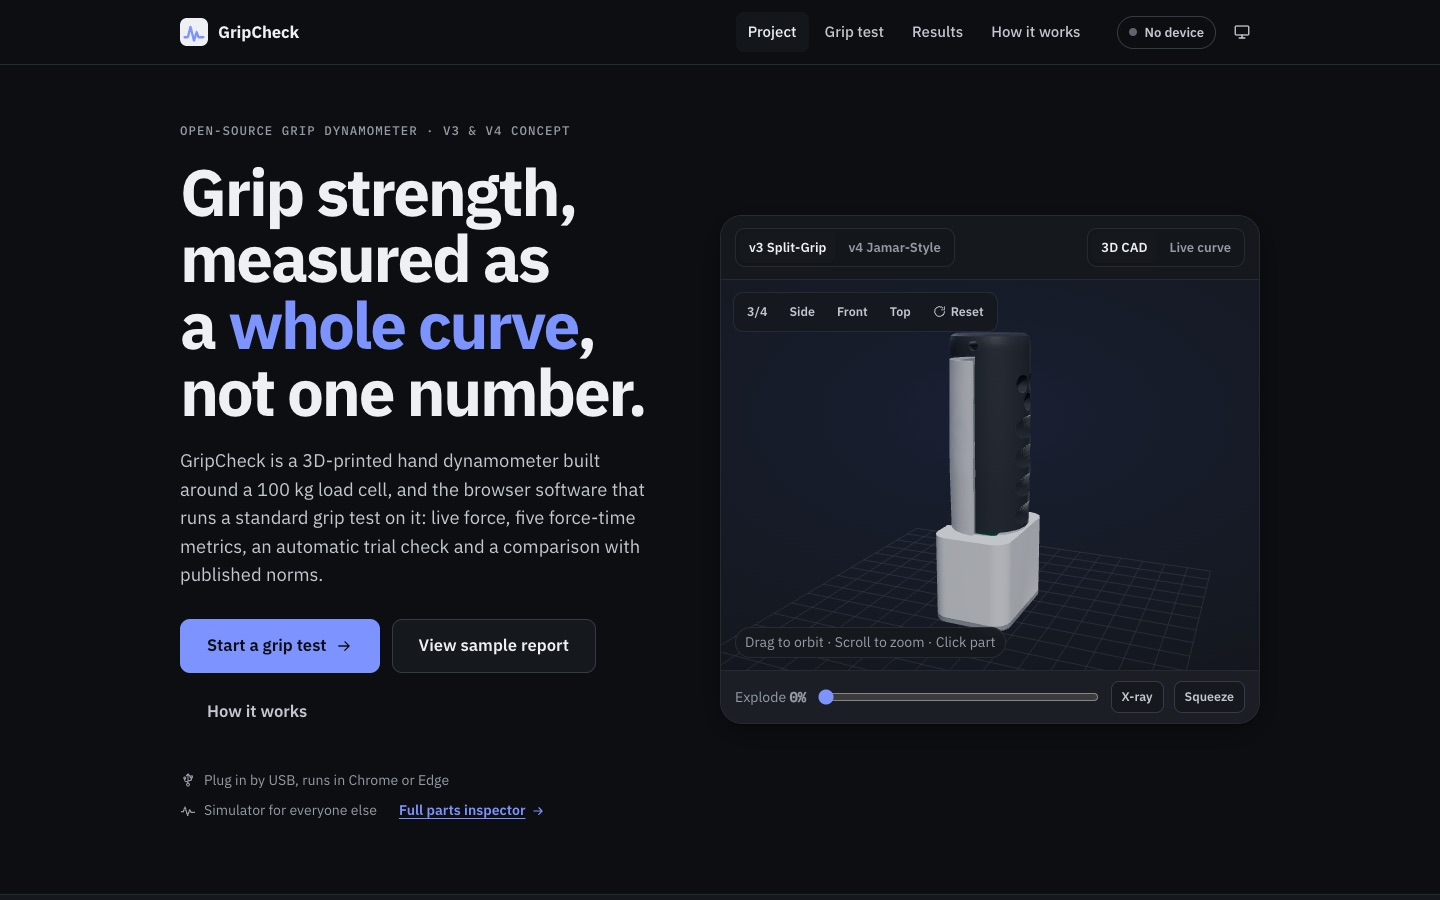
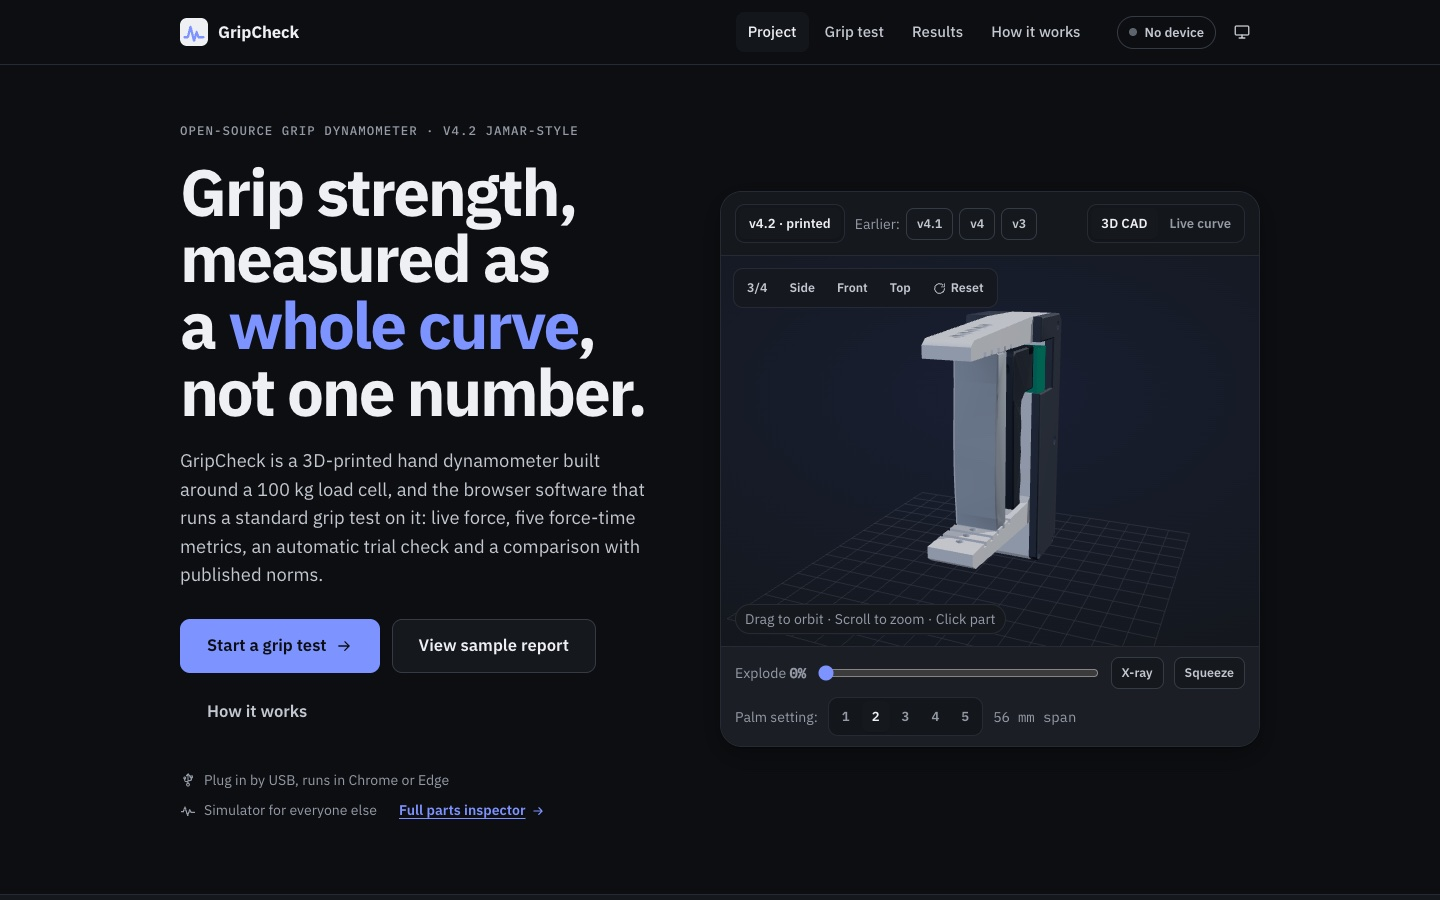
Show the current v4.2 printed GripCheck model instead of the old v3

diff --git a/index.html b/index.html
@@ -147,7 +147,7 @@
 
       <article class="work tone-4" data-topics="bio mech sw">
         <div class="work-media work-shot" data-slot="gripcheck" data-alt="GripCheck's home screen">
-          <img src="images/screens/gripcheck.jpg" alt="GripCheck’s home screen with the 3D model of the dynamometer" width="1440" height="900" loading="lazy">
+          <img src="images/screens/gripcheck.jpg" alt="GripCheck’s home screen with the 3D model of the printed v4.2 Jamar-style dynamometer" width="1440" height="900" loading="lazy">
         </div>
         <div class="work-text">
           <h3>GripCheck</h3>
